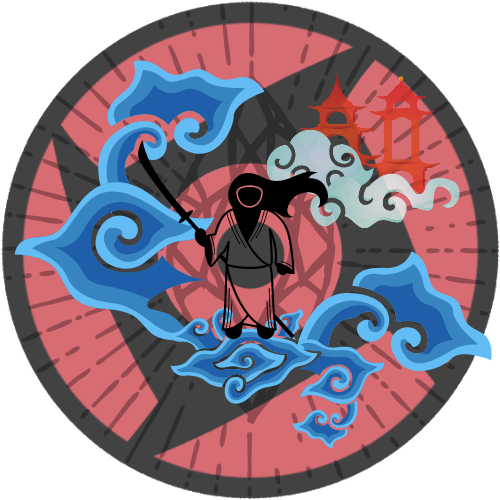
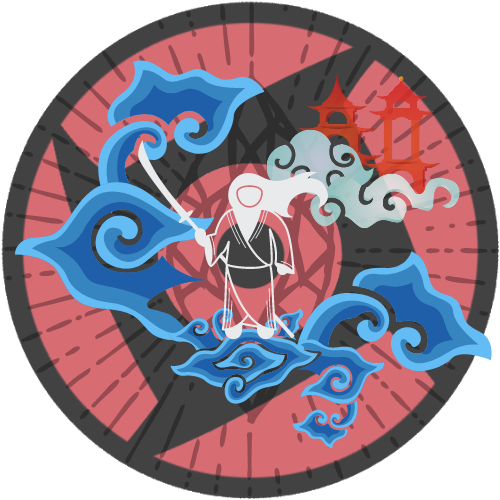
Update image

Changed region(s): [[0.39, 0.33, 0.66, 0.69], [0.27, 0.27, 0.36, 0.42], [0.36, 0.42, 0.39, 0.45]]

diff --git a/README.md b/README.md
@@ -1,7 +1,7 @@
 # Izanagi-UI
 
 <p align="center">
-  <img src="./Izanagi-UI.png">
+  <img src="./Izanagi-UI 2.png">
 </p>
 
 ### Overview
